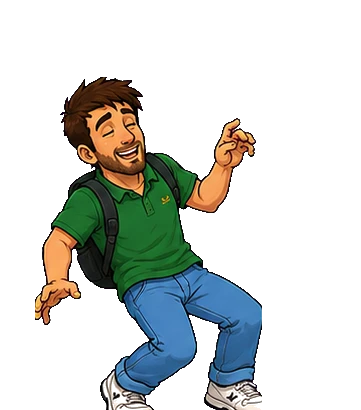
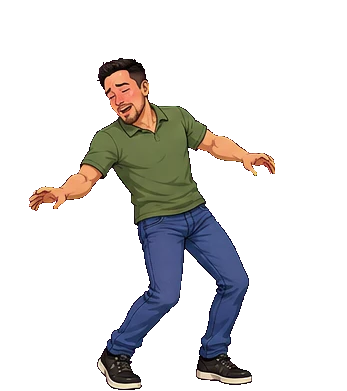
dtour v6.23 : quatorze poses par champion du bar (marche a quatre temps, course a deux, descente en quatre gestes), detourage par connexite pour ignorer les ombres portees

diff --git a/dtour/index.html b/dtour/index.html
@@ -691,7 +691,7 @@ kbd{
     <div class="lecture" id="dLecture"></div>
   </div>
 
-  <div id="version">CALLAGHAN v6.22</div>
+  <div id="version">CALLAGHAN v6.23</div>
 
   <div id="pupitre2">
     <button class="cmd2" id="c2G" aria-label="Aller à gauche">◀</button>
@@ -763,7 +763,7 @@ kbd{
      UIManager         -> Interface
 ================================================================== */
 
-const VERSION = "6.22";
+const VERSION = "6.23";
 
 /* ---------- géométrie ----------
    Tout est exprimé en « unités monde », où un personnage mesure
@@ -1306,8 +1306,12 @@ const IMAGES_NIVEAU2 = [
    s'enchaînent. Deux planches séparées — une par personnage — parce que
    les mettre côte à côte avait déjà fait glisser un Thibaut en polo
    vert dans la rangée de PF, deux fois. */
-const POSES_BAR = ["idle", "marche1", "marche2", "course", "frein",
-                   "attrape", "boit", "vide", "jette", "titube"];
+/* Quatorze poses depuis la v6.23 : la marche a quatre temps au lieu de
+   deux, la course en a deux, et la descente se joue en quatre gestes —
+   il attrape, il tient, il boit, il repose le verre vide. */
+const POSES_BAR = ["idle", "marche1", "marche2", "marche3", "marche4",
+                   "course1", "course2", "frein",
+                   "attrape", "tient", "boit", "vide", "jette", "titube"];
 const PREFIXES_BAR = ["bar_th", "bar_pf"];
 
 const IMAGES_NIVEAU3 = [
@@ -6622,13 +6626,16 @@ const Tournee = {
     if (this.boitT > 0 && this.boitTotal > 0){
       const p = 1 - this.boitT / this.boitTotal;
       if (this.action === "jette") return p < 0.35 ? "attrape" : "jette";
-      return p < 0.25 ? "attrape" : p < 0.75 ? "boit" : "vide";
+      /* quatre temps : il attrape, il regarde ce qu'il tient, il boit,
+         il reste avec le verre vide. C'est ce dernier temps qui donne
+         son poids à la descente de Thibaut. */
+      return p < 0.18 ? "attrape" : p < 0.36 ? "tient" : p < 0.78 ? "boit" : "vide";
     }
     if (this.bourre > 0) return "titube";
     if (this.freinT > 0) return "frein";
     if (this.marche !== 0){
-      if (this.dureeMarche > 0.6) return "course";
-      return (Math.floor(this.foulee * 0.9) % 2) ? "marche2" : "marche1";
+      if (this.dureeMarche > 0.6) return (Math.floor(this.foulee * 1.4) % 2) ? "course2" : "course1";
+      return "marche" + (1 + Math.floor(this.foulee * 0.9) % 4);
     }
     return "idle";
   },
@@ -7262,7 +7269,9 @@ const BarVue = {
       ctx.lineWidth = choisi ? 4 : 2;
       ctx.strokeStyle = choisi ? Heros[c.heros].couleur : "rgba(255,255,255,.25)";
       ctx.stroke();
-      const spr = Images.table[poseBar(c, "idle")];
+      /* Le champion choisi lève son verre, l'autre attend : l'écran de
+         choix montre enfin ce qui les distingue. */
+      const spr = Images.table[poseBar(c, choisi ? "tient" : "idle")];
       if (spr && spr.naturalWidth){
         const sh = cadreH * 0.52, sl = sh * spr.naturalWidth / spr.naturalHeight;
         ctx.drawImage(spr, cx - sl / 2, cy - cadreH * 0.44, sl, sh);

diff --git a/dtour/tests/tests.js b/dtour/tests/tests.js
@@ -1783,18 +1783,21 @@ if (D){
       const vues = [];
       const relever = () => vues.push(T.pose());
       T.marche = 0; T.bourre = 0; T.freinT = 0; T.boitT = 0; relever();
-      T.marche = 1; T.dureeMarche = 0.1; T.foulee = 0; relever();
-      T.foulee = 1.2; relever();
-      T.dureeMarche = 1.2; relever();
+      /* la marche a quatre temps, la course deux */
+      T.marche = 1; T.dureeMarche = 0.1;
+      for (const f of [0, 1.2, 2.4, 3.6]){ T.foulee = f; relever(); }
+      T.dureeMarche = 1.2;
+      for (const f of [0, 0.8]){ T.foulee = f; relever(); }
       T.marche = 0; T.freinT = 0.1; relever();
       T.freinT = 0; T.bourre = 2; relever();
       T.bourre = 0;
       for (const act of ["boit", "jette"]){
         T.action = act; T.boitTotal = 1;
-        for (const p of [0.1, 0.5, 0.9]){ T.boitT = 1 - p; relever(); }
+        for (const p of [0.1, 0.3, 0.5, 0.9]){ T.boitT = 1 - p; relever(); }
       }
       T.boitT = 0;
-      return vues.length === 12 && vues.every(po => n3.has(D.poseBar(c, po)));
+      /* on doit voir passer les quatorze poses, toutes existantes */
+      return new Set(vues).size >= 12 && vues.every(po => n3.has(D.poseBar(c, po)));
     })());
 
   /* --- le garde-fou de faisabilité --- */

diff --git a/dtour/parts/a_socle.js b/dtour/parts/a_socle.js
@@ -18,7 +18,7 @@
      UIManager         -> Interface
 ================================================================== */
 
-const VERSION = "6.22";
+const VERSION = "6.23";
 
 /* ---------- géométrie ----------
    Tout est exprimé en « unités monde », où un personnage mesure
@@ -561,8 +561,12 @@ const IMAGES_NIVEAU2 = [
    s'enchaînent. Deux planches séparées — une par personnage — parce que
    les mettre côte à côte avait déjà fait glisser un Thibaut en polo
    vert dans la rangée de PF, deux fois. */
-const POSES_BAR = ["idle", "marche1", "marche2", "course", "frein",
-                   "attrape", "boit", "vide", "jette", "titube"];
+/* Quatorze poses depuis la v6.23 : la marche a quatre temps au lieu de
+   deux, la course en a deux, et la descente se joue en quatre gestes —
+   il attrape, il tient, il boit, il repose le verre vide. */
+const POSES_BAR = ["idle", "marche1", "marche2", "marche3", "marche4",
+                   "course1", "course2", "frein",
+                   "attrape", "tient", "boit", "vide", "jette", "titube"];
 const PREFIXES_BAR = ["bar_th", "bar_pf"];
 
 const IMAGES_NIVEAU3 = [

diff --git a/dtour/parts/h_bar.js b/dtour/parts/h_bar.js
@@ -201,13 +201,16 @@ const Tournee = {
     if (this.boitT > 0 && this.boitTotal > 0){
       const p = 1 - this.boitT / this.boitTotal;
       if (this.action === "jette") return p < 0.35 ? "attrape" : "jette";
-      return p < 0.25 ? "attrape" : p < 0.75 ? "boit" : "vide";
+      /* quatre temps : il attrape, il regarde ce qu'il tient, il boit,
+         il reste avec le verre vide. C'est ce dernier temps qui donne
+         son poids à la descente de Thibaut. */
+      return p < 0.18 ? "attrape" : p < 0.36 ? "tient" : p < 0.78 ? "boit" : "vide";
     }
     if (this.bourre > 0) return "titube";
     if (this.freinT > 0) return "frein";
     if (this.marche !== 0){
-      if (this.dureeMarche > 0.6) return "course";
-      return (Math.floor(this.foulee * 0.9) % 2) ? "marche2" : "marche1";
+      if (this.dureeMarche > 0.6) return (Math.floor(this.foulee * 1.4) % 2) ? "course2" : "course1";
+      return "marche" + (1 + Math.floor(this.foulee * 0.9) % 4);
     }
     return "idle";
   },

diff --git a/dtour/parts/i_bar_vue.js b/dtour/parts/i_bar_vue.js
@@ -112,7 +112,9 @@ const BarVue = {
       ctx.lineWidth = choisi ? 4 : 2;
       ctx.strokeStyle = choisi ? Heros[c.heros].couleur : "rgba(255,255,255,.25)";
       ctx.stroke();
-      const spr = Images.table[poseBar(c, "idle")];
+      /* Le champion choisi lève son verre, l'autre attend : l'écran de
+         choix montre enfin ce qui les distingue. */
+      const spr = Images.table[poseBar(c, choisi ? "tient" : "idle")];
       if (spr && spr.naturalWidth){
         const sh = cadreH * 0.52, sl = sh * spr.naturalWidth / spr.naturalHeight;
         ctx.drawImage(spr, cx - sl / 2, cy - cadreH * 0.44, sl, sh);

diff --git a/dtour/MEMOIRE.md b/dtour/MEMOIRE.md
@@ -108,6 +108,17 @@ CHAUSSURES au milieu de l'image et la ligne de sol en bas ; le rendu
 dessine alors bêtement en `x - largeur/2`, `y - hauteur`, et tout tombe
 juste.
 
+### Le fond se reconnaît à sa CONNEXITÉ, pas à sa couleur
+Troisième version du détourage, et la bonne. La teinte seule gardait les
+ombres portées ; ajouter « et clair » a rendu un manteau violet fantôme.
+Les deux critères sont chromatiques et un vêtement peut toujours les
+imiter. Le bon test est topologique : **le fond et ses ombres touchent le
+bord de l'image, un vêtement violet est enclos dans le personnage**. On
+étiquette les composantes de teinte magenta, on garde celles qui
+atteignent un bord, et le reste est du personnage quelle que soit sa
+couleur. C'est la méthode des toutes premières planches sur damier —
+j'en étais parti, j'y reviens, et cette fois pour de bon.
+
 ### La teinte ne suffit pas : le fond est aussi CLAIR
 Suite de la leçon précédente, et elle m'a coûté un personnage fantôme en
 jeu. Le test « min(r-g, b-g) élevé » reconnaît le magenta — mais aussi

diff --git a/dtour/LISEZMOI.md b/dtour/LISEZMOI.md
@@ -203,6 +203,13 @@ appartient à l'affaire, pas à l'indice :
   PENSE » suit le raisonnement : l'hypothèse, puis la piste, puis la
   contradiction. On sait toujours où en sont les têtes.
 
+**Les champions du bar ont quatorze poses** (v6.23) : marche à quatre
+temps, course à deux, et la descente en quatre gestes — il attrape, il
+regarde ce qu'il tient, il boit, il reste avec le verre vide. C'est ce
+dernier temps qui donne son poids à la lenteur de Thibaut. Sur l'écran
+de choix, le champion sélectionné lève son verre pendant que l'autre
+attend.
+
 **Neuf poses assises en réserve** (v6.21). Teo et Charles s'en servent
 déjà — l'un avachi sur le canapé, l'autre attablé —, les sept autres
 attendent les places génériques de l'appartement. Elles ont été
